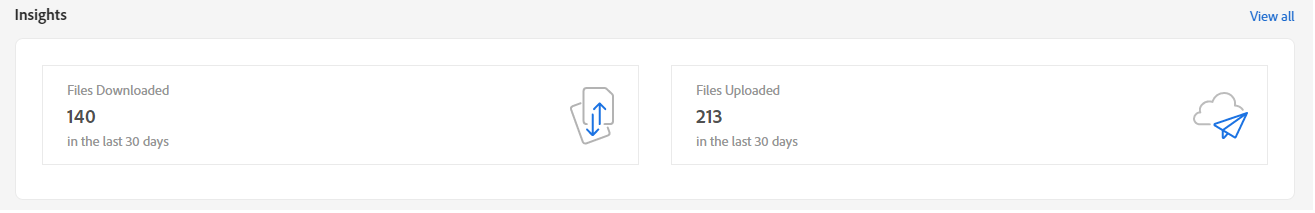
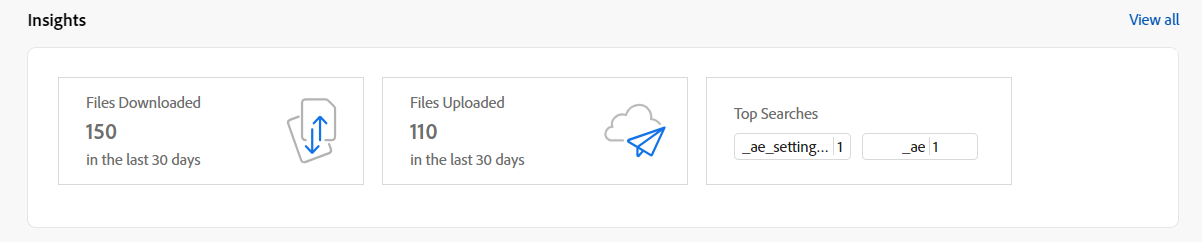
June 22 Assets Essentials release

diff --git a/help/using/tagging-management.md b/help/using/tagging-management.md
@@ -1,0 +1,174 @@
+---
+title: How to manage tags in Assets view?
+description: Learn how to manage tags in Assets view. Tags help you categorize assets that can be browsed and searched more efficiently.
+---
+# Manage tags in Assets view {#view-assets-and-details}
+
+
+>[!CONTEXTUALHELP]
+>id="assets_taxonomy_management"
+>title="Manage Tags"
+>abstract="Tags help you categorize assets that can be browsed and searched more efficiently. Administrators have the ability to use the hierarchical tagging structure, which facilitates applying relevant metadata, categorizing assets, supporting search, reusing tags, improving discoverability, and so on."
+
+Tags help you categorize assets that can be browsed and searched more efficiently. Tagging helps in propagating the appropriate taxonomy to other users and workflows.
+
+Flat lists of controlled vocabularies can become unmanageable over time. Administrators have the ability to use the hierarchical tagging structure, which facilitates applying relevant metadata, categorizing assets, supporting search, reusing tags, improving discoverability, and so on.
+
+You can create a namespace at the root-level and create a hierarchical structure of subtags within the namespace. For example, you can create an `Activities` namespace at the root-level and have `Cycling`, `Hiking`, and `Running` tags within the namespace. You can have further subtags `Clothing` and `Shoes` within `Running`.
+
+![Tagging Management](assets/tags-hierarchy.png)
+
+Tagging provides many benefits, such as:
+
+* Tagging allows authors to easily organize dissimilar assets through a common taxonomy. Authors can quickly search and organize assets by common tags.
+
+* Hierarchical tags are extremely flexible and are an excellent way of organizing terms in a logical way. Through namespaces, tags, and sub-tags, entire taxonomic systems can be represented.
+
+* Tags may evolve over time as an organizational vocabulary changes.
+
+* Tags managed in Admin view remain in sync with the tags managed in Assets view, which ensures metadata governance and integrity.
+
+To be able to apply tags to assets, you must first create a namespace and then create and add tags to it. You can also create tags and add them to an existing namespace. Any tags that you create at the root-level are automatically added to the Standard Tags namespace. You can then add the Tags field to the metadata form so that it displays on the Asset details page. After configuring these settings, you can start applying tags to assets.
+
+>[!NOTE]
+>
+>You need to add the Tags field to the metadata form only if you are not using the default metadata form.
+
+![Tagging Management](assets/tagging-taxonomy-management.png)
+
+Additional capabilities beyond what is mentioned in this article including merging, renaming, localizing, and publishing tags are available in the Admin view. 
+
+## Creating a Namespace {#creating-a-namespace}
+
+A Namespace is a container for tags that can exist only at the root-level. You can start setting up the hierarchical structure of tags by first defining a logical name for the Namespace. If you do not add a tag to any of the existing Namespaces, the tag moves to Standard Tags automatically. 
+
+Execute the following steps to create a Namespace:
+
+1. Go to `Taxonomy Management` under `Settings` to view the list of existing Namespaces. You can also view the last modified date, the user who modified the Namespace or tags under it, and the number of times the tag is used in an asset.
+1. Click `Create Namespace`.
+1. Add `Title`, `Name`, and `Description` for the Namespace. The input that you specify in the `Title` field gets displayed at the top of the hierarchy. For example, in the following image, **Activities** refers to the title of the Namespace.
+
+    ![Tagging Management](assets/tags-hierarchy.png)
+
+    <!--
+    >[!NOTE]
+    >You can use `Name` as a primary key if you are using any other metadata management tool is the source of truth for taxonomy values, you can use the name as a primary key.
+    >
+    -->
+
+1.  Click `Save`.
+
+## Adding Tags to a Namespace {#adding-tags-to-namespace}
+
+Execute the following steps to add tags to a Namespace:
+
+1.  Go to `Taxonomy Management`.
+1.  Select the Namespace and click `Create` to create the tag at the top level under the Namespace. If you need to create a subtag under a tag that exists in a Namespace, select the tag and then click `Create`. 
+![Hierarchy of Tags](assets/hierarchy-of-tags.png)
+
+    In this example, the image on the left represents the tag directly under the Namespace `automobile-four-wheeler` displayed in the `Path` field. The image on the right is an example of subtags added within a tag, as there are more tag names, `jeep` and `jeep-meridian`, displayed in the `Path` field in addition to the Namespace.
+1. Specify the title, name, and description for the tag and click `Save`.
+
+
+    >[!NOTE]
+    >
+    >* The `Title` and `Name` fields are mandatory while the `Description` field is optional. 
+    >* By default, the tool copies the text that you type in the Title field, removes the blank spaces or special characters (. & / \ : * ? [ ] | " %), and stores it as the Name. 
+    >* You can update the `Title` field later but the `Name` field is read-only.
+
+## Adding Tags to Standard Tags {#adding-tags-to-standard-tags}
+
+Unstructured Tags or the tags that do no have any hierarchy are stored under `Standard Tags` namespace. Moreover, when you want to add additional descriptive terms without affecting governed taxonomy, you can store that value under `Standard Tags`. You can move these values under structured namespaces over time. Furthermore, you can use the `Standard Tags` namespace as a free form entry for keywords.
+
+To create a standard tag, click `Create Tag` at the root-level. Specify title, name, and description and then click `Save`.
+
+![Adding tags to standard tags](assets/adding-tags-to-standard-tags.png)
+
+>[!NOTE]
+>
+>If you delete `Standard Tags` namespace using Admin view, the tags created at the root-level do not display in the list of available tags. 
+
+## Moving Tags {#moving-tags}
+
+In case you store your tags under the wrong hierarchy or your taxonomy changes over the time, you can move the selected tags to maintain data integrity. The following conditions must be considered while moving tags:
+
+*   Tags can only move beneath existing namespaces or within an existing tag hierarchy.
+*   Tags cannot be moved to the root to become a namespace.
+*   Moving a parent tag also moves all child tags stored in the hierarchy.
+
+Perform the following steps to move tags from one location to another:
+
+1.  Select the tag or the entire hierarchy of tags under the appropriate namespace and click `Move`.
+1.  On the Move dialog, select the new destination tag or Namespace using the `Select Tag` section.
+1.  Click `Save`. The tag displays at its new location.
+
+## Editing Tags {#editing-tags}
+
+To edit the title of the tag, select the tag and click `Edit`. Specify the new title and click `Save`.
+
+>[!NOTE]
+>
+>* The `Name` of a tag cannot be updated. The root path for a tag is also based on the name of the tag. The path remains the same even if you update the `Title` field. 
+>* Additional operations such as merge, localize, and publish are available in the Admin view.
+
+## Deleting Tags {#deleting-tags}
+
+You can delete multiple Namespaces or tags simultaneously. The delete operation cannot be undone. 
+
+Perform the following steps to delete tags:
+
+1. Select the Namespace or tag and click `Delete`.
+1. Click `Confirm`.
+
+>[!NOTE]
+>
+>* Deleting the parent tag or Namespace also deletes the subtags stored in the hierarchy. If you need to delete or update the parent Namespace, it is recommended to [move your tags](#moving-tags) to the new destination before deleting the parent hierarchy.
+>* Deleting a tag also deletes all its references from assets.
+>* You cannot delete Standard Tags that exist at the root level.
+
+## Adding Tags component to the Metadata form {#adding-tags-to-metadata-form}
+
+The tags component gets added to the `default` metadata form automatically. You can design a [Metadata form](https://experienceleague.adobe.com/docs/experience-manager-assets-essentials/help/metadata.html?lang=en#metadata-forms) either by using a template or from scratch. If you are not using an existing Metadata form template, then you can modify your Metadata form  and add the tags component. The metadata property mapping is filled in automatically and cannot be modified at this time. Users in the Admin view can update the mapping to store tag values using custom namespaces and expose only subsets of hierarchies using root paths.
+
+Watch this quick video to see how to add the Tags component to your metadata form:
+
+>[!VIDEO](https://video.tv.adobe.com/v/3420452)
+
+
+### Adding Tags to Assets {#adding-tags-to-assets}
+
+1.  Go to Asset details page and navigate to the `Tags` section of Metadata form.
+1.  Select the tag picker icon which is next to the Tags field or start typing in a tag name to see suggested results. 
+
+    ![Tagging-assets](assets/adding-tags-to-assets.png)
+
+1.  Select one or more tags. The subtag is selected automatically along with the parent tag or namespace.
+Tags modified in the Assets view are applied in the Admin view as well.
+
+## Limitations {#limitations}
+
+The following advanced taxonomy capabilities are unavailable in Assets view at this time and are only accessible through Admin view: 
+
+* **Localization:** Any localization must occur in the Admin view.
+* **Root Path:** Root paths are not configurable. All namespaces stored in Taxonomy Management are exposed on the Tags property in the Assets view. 
+* **Standard Tags:** The Standard tags applied in the Admin view are visible in the Assets view. You cannot add new standard tags in the Assets view on the Asset Details page. The existing values that are stored in Standard Tags are applied on the Assets Details page.
+* **Custom Namespaces:** Tags cannot be mapped to custom namespaces.
+* **Viewing references:** Admins may see the tag usage in the Assets view. This refers to all assets that are actively using a tag. However, admins cannot see individual assets using the tag in references.
+
+<!--
+*   Overview
+*   Benefits
+*   Prerequisites and Permissions
+*   Configuration
+*   Managing Tags
+    *   Creating a Namespace
+    *   Adding Tags to a Namespace
+    *   Adding Tags to Standard Tags
+    *   Moving Tags
+    *   Editing Tags
+    *   Deleting Tags
+*   Applying Tags
+    *   Adding Tags to the Metadata form
+    *   Adding Tags to Assets
+*   Limitations
+-->

diff --git a/help/using/release-notes.md b/help/using/release-notes.md
@@ -7,7 +7,68 @@ exl-id: a0e29eb6-336a-4f78-b7bd-ec1338c86775
 ---
 # Release notes of [!DNL Assets Essentials] {#release-notes}
 
-The current release of Assets Essentials is released on May 24, 2023.
+The current release of Assets Essentials is released on June 08, 2023.
+
+The list of features include:
+
+
+**Hierarchical tagging of assets for faster search experience**
+
+Flat lists of controlled vocabularies become unmanageable over time. Assets Essentials now supports hierarchical tagging structure, which facilitates applying relevant metadata, categorizing assets, supporting search, reusing tags, improving discoverability, and so on.
+
+![Tagging Management](assets/tags-hierarchy.png)
+
+**Pin files, folders, and collections for quick access**
+
+You can now pin files, folders, and collections for faster access to these items when you need them later. The pinned items display in the **Quick access** section of My Workspace. You can access them using My Workspace instead of navigating to the location where they are saved within the repository.
+
+![Tasks in Workspace](assets/quick-access.png)
+
+**Filter assets in the Trash folder**
+
+Assets Essentials now enables you to filter assets available in the Trash folder. You can apply standard or custom filters to search appropriate assets within the Trash folder to either restore or permanently delete them.
+
+**Thumbnail previews for 3D assets**
+
+Assets Essentials now generates thumbnail previews for common 3D file formats including gLB, USDz, FBX, 3DS, OBJ, and SBSAR. When these files are uploaded to Assets Essentials, thumbnails are automatically generated by the system, by default.
+
+![Tasks in Workspace](assets/3d-preview.png)
+
+**View top searched terms**
+
+Assets Essentials now supports viewing top searched terms within your Assets Essentials deployment using the **Insights** section of My Workspace. You can also navigate to detailed Insights to view top searches during the last 30 days or 12 months.
+
+![Tasks in Workspace](assets/insights-top-searches.png)
+
+**Metadata form enhancements**
+
+Assets Essentials now enables you to add multi-value text and drop-down list property components to the metadata forms.
+
+
+**Improvements based on customer feedback**
+
+Enhancements and bug fixes based on customer feedback.
+
+## Known issues {#known-issues}
+
+The list of known issues of [!DNL Assets Essentials] offering is revised and updated on an ongoing basis:
+
+<!--
+
+* Assets Essentials does not support creating Private collections.
+
+-->
+
+
+* Private collections are available to creator and the users with administrator privileges. As an administrator, you cannot delegate the permissions to access the collection to other users.
+
+* As an administrator, you cannot delegate the permissions to access the collection to other users.
+
+If you come across any issues or even enhancement requests, [provide feedback](#provide-feedback) to the team.
+
+## Past releases {#past-releases}
+
+### Multiple releases in 2023 {#multiple-releases-2023}
 
 The list of recently added features include:
 
@@ -41,25 +102,6 @@ Assets Essentials now generates a link automatically as soon as you choose to sh
 **Improvements based on customer feedback**
 
 Enhancements and bug fixes based on customer feedback.
-
-## Known issues {#known-issues}
-
-The list of known issues of [!DNL Assets Essentials] offering is revised and updated on an ongoing basis:
-
-<!--
-
-* Assets Essentials does not support creating Private collections.
-
--->
-
-
-* Private collections are available to creator and the users with administrator privileges. As an administrator, you cannot delegate the permissions to access the collection to other users.
-
-* As an administrator, you cannot delegate the permissions to access the collection to other users.
-
-If you come across any issues or even enhancement requests, [provide feedback](#provide-feedback) to the team.
-
-## Past releases {#past-releases}
 
 ### 2022.11.0 {#november-2022}
 
@@ -247,7 +289,7 @@ In addition, [!DNL Adobe Asset Link] extension for Creative Cloud (Photoshop, Il
 
 [!DNL Assets Essentials] 2021.8.0 is released on August 30, 2021, with the following updates:
 
-* Integrations with [!DNL Adobe Workfront] that lets [!DNL Workfront] users manage their digital assets in the context of managing their work. For more information, see [integrations with other Adobe solutions](/help/using/integration.md).
+* Integrations with [!DNL Adobe Workfront] that lets [!DNL Workfront] users manage their digital assets in the context of managing their work. For more information, see [integrations with other Adobe solutions](/help/integration.md).
 
 ### 2021.7.0 release {#july2021}
 
@@ -263,4 +305,4 @@ The first release of [!DNL Assets Essentials], made available on June 21, 2021, 
 * Upload and add assets, including nested folders. Preview the assets and versions.
 * Full-text search, nuanced search filters, and saved searches for rapid asset discovery.
 * Basic asset management operations like update, delete, download, and manage metadata.
-* [!DNL Assets Essentials] is available to [!DNL Adobe Journey Optimizer] users to manage the assets when creating messages. For more information, see [integrations with other Adobe solutions](/help/using/integration.md).
+* [!DNL Assets Essentials] is available to [!DNL Adobe Journey Optimizer] users to manage the assets when creating messages. For more information, see [integrations with other Adobe solutions](/help/integration.md).

diff --git a/help/using/my-workspace.md b/help/using/my-workspace.md
@@ -12,7 +12,7 @@ exl-id: 402dd3a6-44e5-4d13-97d8-1d7fa26a99e4
 
 Assets now includes a customizable workspace that provides widgets for convenient access to key areas of the Assets user interface and information that is most relevant to you. This page serves as a one-stop solution to provide an overview of your work items and to give quick access to key workflows. More convenient access to these options increases your efficiency and content velocity.
 
-You can access My Workspace by clicking **[!UICONTROL My Workspace]** from the items available in the left navigation pane. My Workspace includes a variety of widgets that show Insights, Tasks, and Content widgets. You can configure how these widgets are displayed in your Workspace based on your preferences.
+You can access My Workspace by clicking **[!UICONTROL My Workspace]** from the items available in the left navigation pane. My Workspace includes a variety of widgets that show Quck access, Insights, Tasks, and Content widgets. You can configure how these widgets are displayed in your Workspace based on your preferences.
 
 >[!NOTE]
 >
@@ -28,9 +28,21 @@ Highlights upcoming features for Assets.
 
 -->
 
+
+
+**Quick access**
+
+Pin files, folders, and collections for faster access to these items when you need them later. All pinned items display in the **Quick access** section of My Workspace. You can access them using My Workspace instead of navigating to the location where they are saved within the repository.
+
+To pin an asset, a folder, or a collection, select the item and click **[!UICONTROL Pin to Quick Access]**.
+
+![Tasks in Workspace](assets/quick-access.png)
+
 **Insights**
 
 Administrators can view a summary of the number of downloads and uploads performed on the Assets environment during the last 30 days. You can click **[!UICONTROL View all]** to quickly navigate to the Insights page for more detailed dashboards.
+
+You can also view top searched terms along with the number of times those terms are searched within your Assets Essentials deployment using the **Insights** section of My Workspace. You can also navigate to detailed Insights to view top searches during the last 30 days or 12 months.
 
 ![Insights in Workspace](assets/insights.png)
 

diff --git a/help/using/manage-reports.md b/help/using/manage-reports.md
@@ -26,7 +26,9 @@ Click **[!UICONTROL Insights]** available in the left navigation pane to view th
 
 * **Downloads**: The number of assets downloaded from the Assets Essentials environment in the last 30 days or 12 months represented using a line chart.
 
-* **Uploads**: The number assets uploaded to the Assets Essentials environment in the last 30 days or 12 months represented using a line chart.
+* **Uploads**: The number of assets uploaded to the Assets Essentials environment in the last 30 days or 12 months represented using a line chart.
+
+* **Top Searches**: View top searched terms along with the number of times those terms are searched within your Assets Essentials environment in the last 30 days or 12 months represented in a tabular format.
 
 <!--
 

diff --git a/help/using/TOC.md b/help/using/TOC.md
@@ -35,6 +35,7 @@ solution: Experience Manager
 + [Manage collections](manage-collections.md)
 + [Watch assets, folders, and collections](manage-notifications.md)
 + [Manage reports](manage-reports.md)
++ [Manage tags](tagging-management.md)
 + Integration with other solutions {#integration-with-other-solutions}
   + [Overview](integration.md)
   + [Integrate with Creative Cloud for Enterprise](integrate-with-creative-cloud.md)
